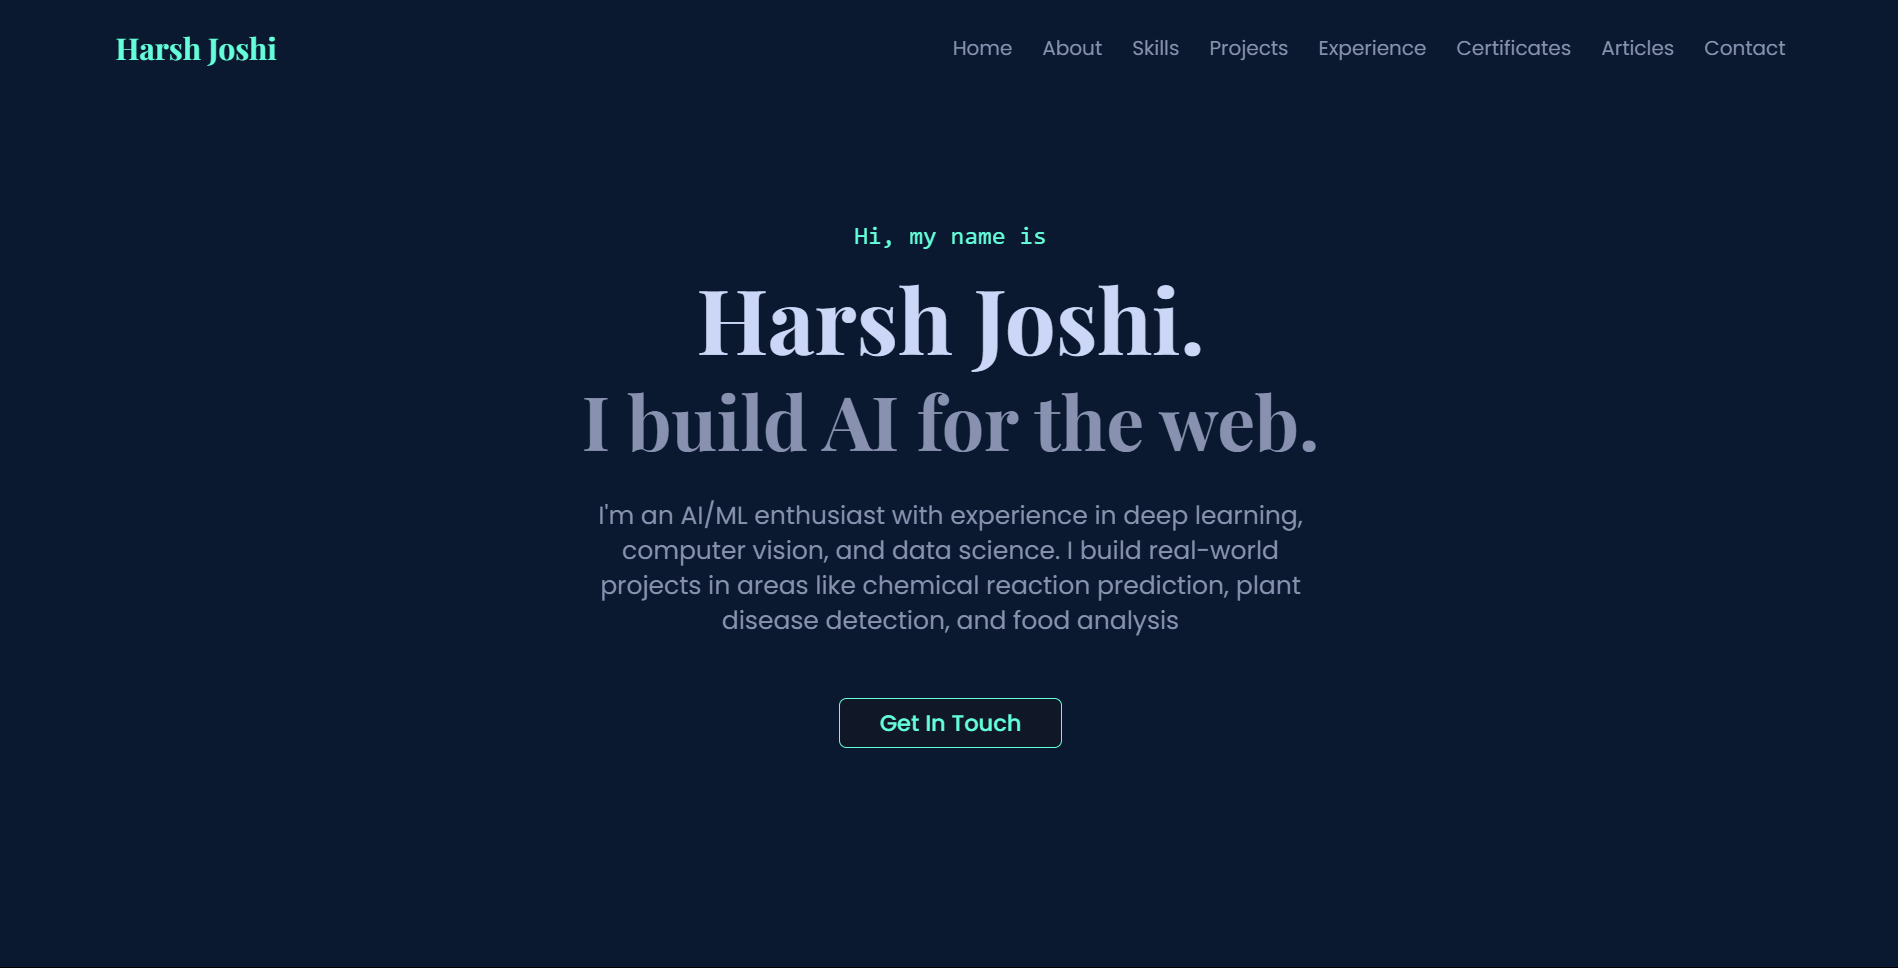
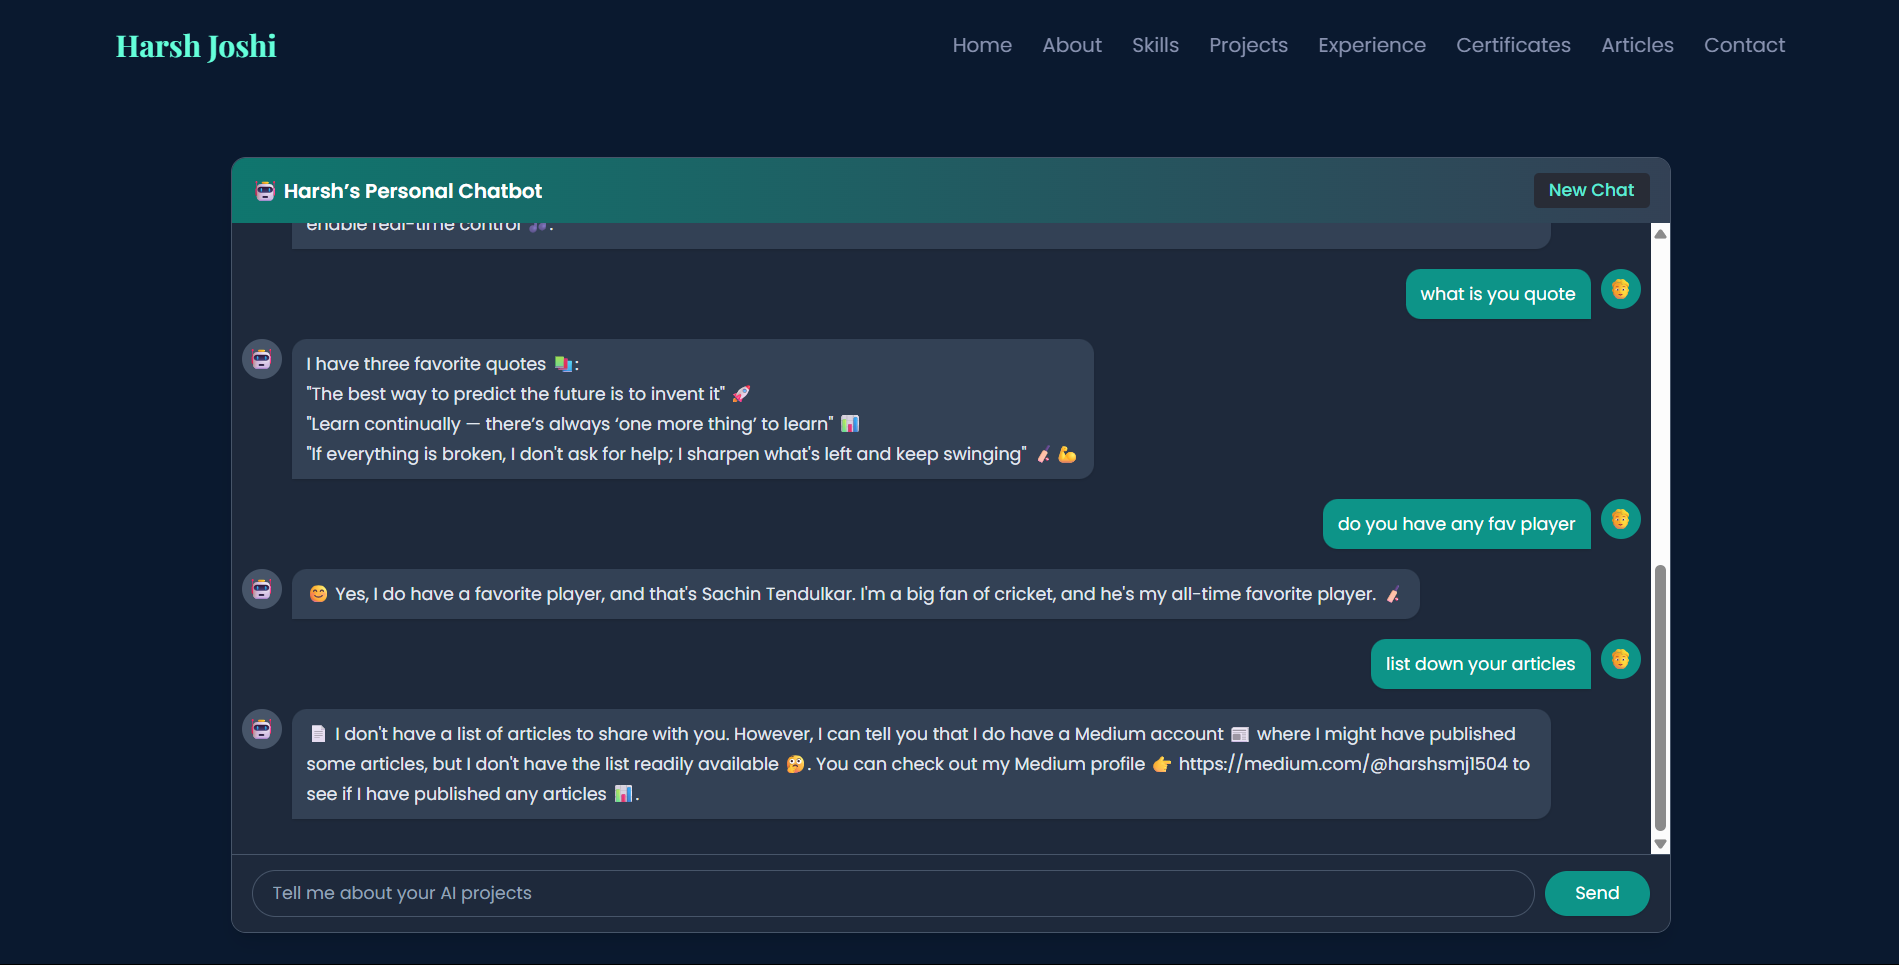
version 21

diff --git a/src/components/ProjectsSection.tsx b/src/components/ProjectsSection.tsx
@@ -16,15 +16,24 @@ interface Project {
 const projectsData: Project[] = [
   {
     id: 1,
-    title: 'Personal Portfolio Website',
-    description: 'My portfolio website! Built with React, TypeScript, Tailwind CSS, and Vite. Showcases my skills and projects in a clean, responsive design.',
-    imageUrl: '/ss.png',
-    technologies: ['React', 'TypeScript', 'Tailwind CSS', 'Vite'],
-    liveLink: 'https://harsh-joshi-portfolio-zeta.vercel.app/', // Link to itself
-    repoLink:'https://github.com/harsh1504660/portfolio-website'
+    title: 'EduPath AI',
+    description: 'EduPath AI is an AI-powered educational platform that provides personalized learning paths for students. It uses LLAMA 3 to to create customized roadmap and learning resources based on user input. It created quiz and solves doubts using AI.',
+    imageUrl: '/ep.png',
+    technologies: ['Langchain','FastAPI', 'Pinecone','React', 'Tailwind CSS'],
+    liveLink: 'https://edu-path-ai-theta.vercel.app/', // Link to itself
+    repoLink:'https://github.com/harsh1504660/EduPath-AI'
   },
   {
     id: 2,
+    title: 'Personal Chatbot',
+    description: 'A personal chatbot that can answer questions about me, my projects, and my interests. It uses a transformer model to understand and respond to user queries. It can also provide insights into my skills and experiences.',
+    imageUrl: '/ss.png',
+    technologies: ['Langchain','FastAPI', 'Pinecone','React', 'Tailwind CSS'],
+    liveLink: 'https://harsh-joshi-portfolio-zeta.vercel.app/bot', // Link to itself
+    repoLink:'https://github.com/harsh1504660/Personal_ChatBot'
+  },
+  {
+    id: 3,
     title: 'Smart Answer Evaluater',
     description: 'AI enabled answer evaluator that uses a transformer model to evaluate answers based on the given question. It provides a score and feedback on the answer.',
     imageUrl: '/sae1.png',
@@ -33,7 +42,7 @@ const projectsData: Project[] = [
     repoLink: 'https://github.com/harsh1504660/Smart-Answer-Evaluator',
   },
   {
-    id: 3,
+    id: 4,
     title: 'Hand Gesture VLC Media Controller',
     description: 'A hand gesture-based media controller that uses computer vision to control VLC media player. It recognizes hand gestures and maps them to media controls like play, pause, next, and previous.',
     imageUrl: '/hgvc.png',
@@ -41,7 +50,7 @@ const projectsData: Project[] = [
     repoLink: 'https://github.com/harsh1504660/Gesture-Media-Controller',
   },
   {
-    id: 4,
+    id: 5,
     title: "Agri Spectra AI [MVP]",
     description: "Agri Spectra AI is an AI-powered platform that provides insights into agricultural data. It uses machine learning to analyze crop health, predict yields, and optimize farming practices.",
     imageUrl: '/agri.png', // Teal bg, Deep Blue text
@@ -50,22 +59,13 @@ const projectsData: Project[] = [
 
   },
   {
-    id: 5,
+    id: 6,
     title: "Diabetes Prediction App",
     description: "A web application that predicts the likelihood of diabetes based on user input. It uses machine learning models to analyze health data and provide predictions.",
     imageUrl: '/dd.png', // Hot Pink bg, Deep Blue text
     technologies: ['Scikit-learn', 'Streamlit', 'MLFlow', 'Pandas'],
     liveLink: 'https://diabetes-predictor-ankmxawcztpjgcsmlkyybw.streamlit.app/',
     repoLink: 'https://github.com/harsh1504660/Diabetes-Predictor',
-  },
-  {
-    id: 6,
-    title: "Laptop Price Predictor",
-    description: "A web application that predicts laptop prices based on specifications. It uses machine learning models to analyze laptop features and provide price predictions.",
-    imageUrl:'/lap.jpg', // Blue Violet bg, White text
-    technologies: ['Scikit-Learn', 'Streamlit', 'Numpy', 'Pandas'],
-    liveLink: 'https://laptop-price-predictor-jsbziud4ibtybumfx7mmkj.streamlit.app/',
-    repoLink: 'https://github.com/harsh1504660/Laptop-price-predictor'
   },
 ];
 

diff --git a/src/components/AboutSection.tsx b/src/components/AboutSection.tsx
@@ -17,7 +17,7 @@ const AboutSection = () => {
             </p>
             <ul className="grid grid-cols-2 gap-x-4 gap-y-2 font-mono text-sm">
               <li className="before:content-['▹'] before:mr-2 before:text-brand-teal">Machine Learning (ES6+)</li>
-              <li className="before:content-['▹'] before:mr-2 before:text-brand-teal">Depp Learning</li>
+              <li className="before:content-['▹'] before:mr-2 before:text-brand-teal">Deep Learning</li>
               <li className="before:content-['▹'] before:mr-2 before:text-brand-teal">Natural Language Processing</li>
               <li className="before:content-['▹'] before:mr-2 before:text-brand-teal">Computer Vision</li>
               <li className="before:content-['▹'] before:mr-2 before:text-brand-teal">MLOps</li>
